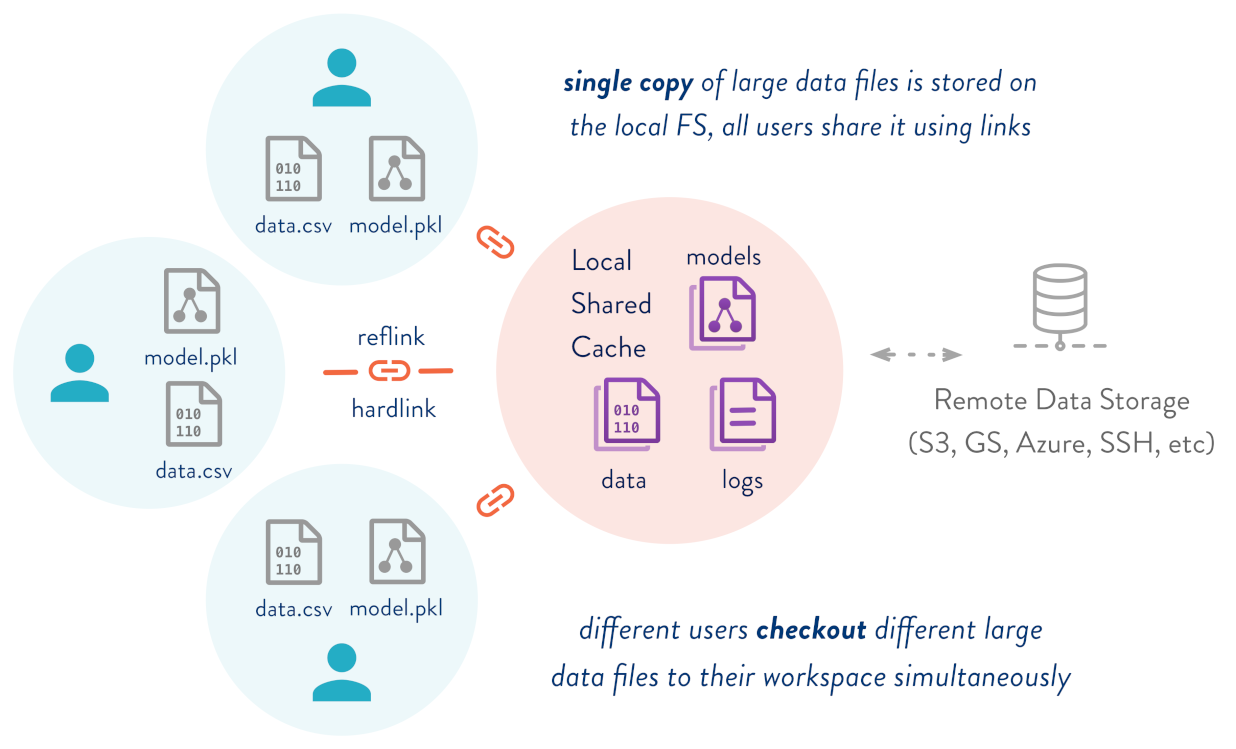
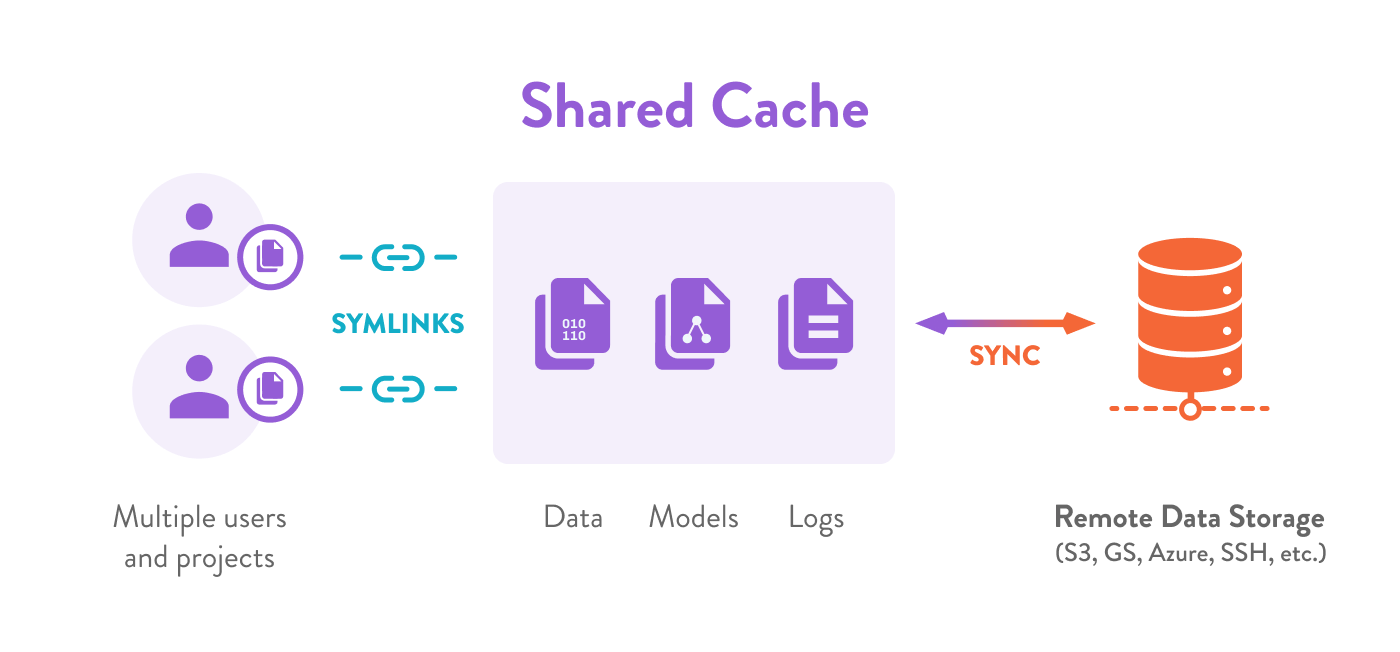
cases: Fast and Secure Data Caching Hub (#2587)
* cases: remove shared dev and
redir to hypothetical (for now) how-to

* cases: first draft og Managing Datasets

* cases: rename Dataset Storage page and
update intro
per https://github.com/iterative/dvc.org/pull/2587#discussion_r661973106

* cases: update scenarios for Effective Dataset Storage

* cases: focus on efficient, performant data storage infra.

* cases: refine intro, expand on Storage Layer solutions

* cases: finish main solution section
(first version)

* cases: focus Data Storage Layer on infra layer

* cases: copy edits and Shared Dev Server ex. for
for Data Storag Layer

* cases: 2nd version improvements

* ref: link from destroy to Datasets Cache case

* cases: rename Fast Data Storage Layers, and
update intro per
https://github.com/iterative/dvc.org/pull/2587#discussion_r671517743

* cases: clarify about "speeding up" transfers
per https://github.com/iterative/dvc.org/pull/2587#discussion_r671501609

* cases: copy edit
rel https://github.com/iterative/dvc.org/pull/2587#discussion_r671482547

* cases: move object store examples to remote p
per https://github.com/iterative/dvc.org/pull/2587#discussion_r671498181

* cases: finalize Fast Data Layer Storage ver 2.1

* cases: make advanced details section
for Fast Data Storage Layers

* cases: clean up Shared dev srvr example and
include notes about file permissions per https://discuss.dvc.org/t/multiple-users-in-one-repo/746/4

* Update content/docs/use-cases/fast-data-storage-layer.md
[…]

diff --git a/content/docs/use-cases/fast-data-caching-hub.md b/content/docs/use-cases/fast-data-caching-hub.md
@@ -1,0 +1,78 @@
+# Fast and Secure Data Caching Hub
+
+Datasets used in data science tend to exceed typical storage and networking
+capacities. Storage needs expand rapidly as more people acquire the same data,
+creating duplication (increasing cost). Valuable time is wasted waiting for
+downloads in each environment.
+
+![](/img/dataset-copies.png) _Users wait for repeated transfers and produce
+multiple data copies locally._
+
+DVC's built-in data <abbr>caching</abbr> lets you implement a simple and
+efficient storage layer globally -- for your entire team. This approach can help
+to
+
+- speed up data transfers from massive object stores currently on the cloud, or
+  move a growing dataset out of your machine without slowing things down.
+
+- pay only for fast access to frequently-used data (upgrading your entire
+  storage platform is expensive).
+
+- avoid downloading data again and duplicating files when multiple people are
+  working on the same data (for example on a
+  [shared development server](#example-shared-development-server)).
+
+- switch data inputs quickly (without re-downloading) on a shared server used
+  for machine learning [experiments](/doc/user-guide/experiment-management).
+
+![](/img/storage-layers.png) _Data storage middleware for multiple projects_
+
+You can have a single storage for all you projects by setting up a [shared DVC
+cache] in a near location (network, external drive, etc.). This de-duplicates
+files across datasets and prevents repetitive transfers by
+[linking](/doc/user-guide/large-dataset-optimization) your working files and
+directories. Data security policies can be implemented reliably, as data never
+leaves the central storage. DVC can also help you back up and
+[share data and ML models](/doc/use-cases/sharing-data-and-model-files) on
+external/remote locations.
+
+Now that your team shares a primary storage, it can be managed independently as
+part of your infrastructure; provisioned depending on data access speed and cost
+requirements. You have the flexibility to switch storage providers at any time,
+without having to change the directory structures or code of your projects.
+
+### What's next?
+
+For details about how DVC caches your files and directories, see [Structure of
+the cache directory]. If you're completely new to DVC, see our
+[Get Started](/doc/start) pages to get familiar with the main features that
+structured storage and
+[data versioning](/doc/use-cases/versioning-data-and-model-files) allow. And
+check out the following example for a specific solution provided by a layered
+storage architecture.
+
+[structure of the cache directory]:
+  /doc/user-guide/project-structure/internal-files#structure-of-the-cache-directory
+
+## Example: Shared development server
+
+Some teams prefer using a single shared machine to run their experiments. This
+is a simple way to improve resource utilization (quick transfers, central
+storage, GPU access, etc.). Everyone can still work in a separate
+<abbr>workspace</abbr> (e.g. in their user home folders).
+
+![](/img/shared-server.png) _Data storage shared by DVC projects_
+
+Start by configuring a [shared DVC cache]. Now when colleagues make changes to
+the project, you can get the latest results with `dvc checkout`. DVC links data
+files and directories to your workspace instantly, so data artifacts are never
+moved or copied.
+
+[shared dvc cache]: /doc/user-guide/how-to/share-a-dvc-cache
+
+```dvc
+$ git pull
+$ dvc checkout
+A       data/new
+M       data/labels
+```

diff --git a/content/docs/command-reference/destroy.md b/content/docs/command-reference/destroy.md
@@ -24,7 +24,7 @@ in your project, DVC will replace them with the latest versions of the actual
 files and directories first, so that your data is intact after destruction.
 
 [external cache]:
-  /doc/use-cases/shared-development-server#configure-the-external-shared-cache
+  /doc/user-guide/managing-external-data#setting-up-an-external-cache
 
 > Refer to [Project Structure](/doc/user-guide/project-structure) for more
 > details on the directories and files deleted by this command.

diff --git a/content/docs/user-guide/experiment-management/checkpoints.md b/content/docs/user-guide/experiment-management/checkpoints.md
@@ -194,7 +194,7 @@ The [`dvclive.next_step()`](/doc/dvclive/api-reference/next_step) line tells DVC
 that it can take a snapshot of the entire workspace and version it with Git.
 It's important that with this approach only code with metadata is versioned in
 Git (as an ephemeral commit), while the actual model weight file will be stored
-in the DVC data cache.
+in the DVC data <abbr>cache</abbr>.
 
 ## Running experiments
 

diff --git a/content/docs/user-guide/basic-concepts/dvc-cache.md b/content/docs/user-guide/basic-concepts/dvc-cache.md
@@ -1,6 +1,6 @@
 ---
 name: 'DVC Cache'
-match: ['DVC cache', cache, caches, cached, 'cache directory']
+match: ['DVC cache', cache, caches, cached, 'cache directory', caching]
 tooltip: >-
   The DVC cache is a hidden storage (by default in `.dvc/cache`) for files and
   directories tracked by DVC, and their different versions. Learn more about its
